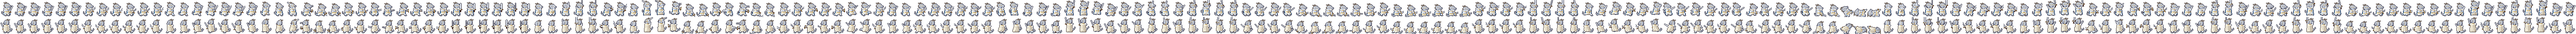
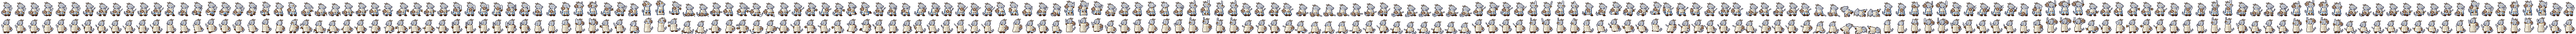
fix(tactics-creator): align creator.json traits, subclass names, and drawn gear with rules (#128)

diff --git a/tools/tactics-assets/parts/creator.py b/tools/tactics-assets/parts/creator.py
@@ -60,40 +60,40 @@ class ClassKit:
 RACES: dict[str, Race] = {r.id: r for r in [
     Race("human", "Human", "standard", "human", HUMAN_SKINS, HAIR_STYLES, ALL_BEARDS,
          default={"skin": "tan", "hair": "short", "hair_colour": "brown", "eyes": "dark"},
-         traits=["Versatile", "+1 to every score"]),
+         traits=["Resourceful", "+1 skill"]),
     Race("elf", "Elf", "standard", "elf", HUMAN_SKINS, HAIR_STYLES, [],
          default={"skin": "porcelain", "hair": "long", "hair_colour": "platinum", "eyes": "green"},
-         traits=["Darkvision", "Fey ancestry", "Keen senses"]),
+         traits=["Darkvision", "Fey ancestry", "Fey step"]),
     Race("half_elf", "Half-Elf", "standard", "half_elf", HUMAN_SKINS, HAIR_STYLES, ["short", "goatee", "stubble"],
          default={"skin": "fair", "hair": "ponytail", "hair_colour": "auburn", "eyes": "green"},
-         traits=["Darkvision", "Fey ancestry", "Two extra skills"]),
+         traits=["Darkvision", "Fey ancestry", "+1 skill"]),
     Race("dwarf", "Dwarf", "short", "human", ["fair", "tan", "olive", "brown", "deep"], HAIR_STYLES,
          ["full", "braided", "short", "goatee", "moustache", "stubble"],
          default={"skin": "tan", "hair": "short", "hair_colour": "copper", "beard": "full", "eyes": "dark"},
-         traits=["Darkvision", "Poison resilience", "Stone sense"]),
+         traits=["Darkvision", "Poison resilience", "Stoneskin"]),
     Race("halfling", "Halfling", "short", "human", HUMAN_SKINS, HAIR_STYLES, [],
          default={"skin": "olive", "hair": "messy", "hair_colour": "brown", "eyes": "green"},
-         traits=["Lucky", "Brave", "Nimble"]),
+         traits=["Lucky"]),
     Race("gnome", "Gnome", "short", "gnome", HUMAN_SKINS, HAIR_STYLES, ["short", "full", "moustache", "goatee"],
          default={"skin": "fair", "hair": "messy", "hair_colour": "teal", "eyes": "blue"},
          traits=["Darkvision", "Gnome cunning"]),
     Race("half_orc", "Half-Orc", "large", "orc", ["orc", "orc_grey", "orc_olive", "goblin"], HAIR_STYLES,
          ["short", "goatee", "moustache", "stubble"],
          default={"skin": "orc", "hair": "mohawk", "hair_colour": "black", "eyes": "amber", "horn": "ivory"},
-         traits=["Darkvision", "Relentless endurance", "Savage attacks"]),
+         traits=["Darkvision", "Relentless endurance"]),
     Race("tiefling", "Tiefling", "standard", "human", ["tiefling", "infernal", "lilac", "ash"], HAIR_STYLES,
          [], horns=["curled", "straight", "ram", "small"], horns_required=True, tail="devil",
          default={"skin": "tiefling", "hair": "long", "hair_colour": "black", "horns": "curled",
                   "horn": "ram", "eyes": "gold"},
-         traits=["Darkvision", "Hellish resistance", "Infernal legacy"]),
+         traits=["Darkvision", "Hellish resistance", "Hellish rebuke"]),
     Race("aasimar", "Aasimar", "standard", "human", ["celestial_gold", "celestial_silver", "celestial_bronze",
                                                      "porcelain", "brown"], HAIR_STYLES, ["short", "full"],
          default={"skin": "celestial_gold", "hair": "long", "hair_colour": "chestnut", "eyes": "radiant"},
-         traits=["Darkvision", "Healing hands", "Radiant soul"]),
+         traits=["Darkvision", "Healing hands"]),
     Race("goliath", "Goliath", "large", "human", ["stone_grey", "stone_blue", "stone_umber"], HAIR_STYLES,
          ["short", "braided"],
          default={"skin": "stone_grey", "hair": "none", "eyes": "blue", "marks": "tattoo", "paint": "kohl"},
-         traits=["Stone's endurance", "Powerful build", "Mountain born"]),
+         traits=["Stone's endurance"]),
     Race("dragonborn", "Dragonborn", "standard", "dragon",
          ["dragon_red", "dragon_blue", "dragon_green", "dragon_black", "dragon_white", "dragon_gold",
           "dragon_bronze", "dragon_silver", "dragon_copper", "dragon_brass"], [], [],
@@ -118,21 +118,22 @@ CLASSES: dict[str, ClassKit] = {k.id: k for k in [
     ClassKit("ranger", "Ranger", {"torso": "coat", "legs": "pants", "feet": "boots", "hands": "gloves",
                                   "weapon": "bow", "cape": "cloak"},
              {"cloth1": "cloth/forest", "cloth2": "cloth/sand"}, "Ranged"),
-    ClassKit("paladin", "Paladin", {"torso": "plate", "legs": "greaves", "feet": "sabatons", "hands": "gauntlets",
-                                    "weapon": "greatsword", "cape": "cloak"},
+    ClassKit("paladin", "Paladin", {"torso": "chain", "legs": "pants", "feet": "boots", "hands": "gloves",
+                                    "weapon": "sword", "offhand": "round_shield", "cape": "cloak"},
              {"cloth1": "cloth/ivory", "cloth2": "cloth/sky", "metal": "metal/silver"}, "Defender"),
     ClassKit("bard", "Bard", {"torso": "tunic", "legs": "pants", "feet": "boots", "hands": "bare",
                               "weapon": "lute", "cape": "short_cape"},
              {"cloth1": "cloth/teal", "cloth2": "cloth/ochre", "wood": "wood/pale"}, "Support"),
     ClassKit("druid", "Druid", {"torso": "robe", "legs": "skirt", "feet": "sandals", "hands": "bare",
-                                "weapon": "staff", "headgear": "circlet"},
+                                "weapon": "staff", "headgear": "circlet", "offhand": "round_shield"},
              {"cloth1": "cloth/moss", "cloth2": "cloth/forest", "magic": "magic/nature", "wood": "wood/dark"},
              "Shapeshifter"),
     ClassKit("warlock", "Warlock", {"torso": "coat", "legs": "pants", "feet": "boots", "hands": "gloves",
                                     "weapon": "tome", "cape": "cloak"},
              {"cloth1": "cloth/plum", "cloth2": "cloth/charcoal", "trim": "metal/dark", "magic": "magic/shadow"},
              "Blaster"),
-    ClassKit("monk", "Monk", {"torso": "tunic", "legs": "pants", "feet": "sandals", "hands": "bare"},
+    ClassKit("monk", "Monk", {"torso": "tunic", "legs": "pants", "feet": "sandals", "hands": "bare",
+                              "weapon": "spear"},
              {"cloth1": "cloth/ochre", "cloth2": "cloth/rust"}, "Skirmisher"),
     ClassKit("barbarian", "Barbarian", {"torso": "harness", "legs": "kilt", "feet": "boots", "hands": "wraps",
                                         "weapon": "greataxe", "cape": "pelt", "marks": "warpaint"},
@@ -175,7 +176,7 @@ SUBCLASSES: dict[str, Subclass] = {s.id: s for s in [
           "headgear": "feathered_cap", "offhand": "war_horn"},
          {"cloth1": "cloth/navy", "cloth2": "metal/gold", "metal": "metal/bronze"}),
     # Rogue
-    _sub("rogue", "shadow", "Shadow", "Stealth, backstabs from behind",
+    _sub("rogue", "shadow", "Shadow", "Stealth, teleport between shadows",
          {"headgear": "mask_hood", "offhand": "dagger", "torso": "leather", "cape": "cloak"},
          {"cloth1": "cloth/charcoal", "cloth2": "cloth/charcoal", "leather": "leather/dark", "blade": "metal/dark"}),
     _sub("rogue", "trickster", "Trickster", "Traps, swaps positions",
@@ -228,20 +229,20 @@ SUBCLASSES: dict[str, Subclass] = {s.id: s for s in [
     _sub("bard", "valor", "College of Valor", "Buffs, grants extra actions",
          {"torso": "chain", "weapon": "sword", "offhand": "war_horn", "headgear": "feathered_cap"},
          {"cloth1": "cloth/crimson", "cloth2": "metal/gold"}),
-    _sub("bard", "lore", "College of Lore", "Debuffs, copies an enemy ability",
+    _sub("bard", "lore", "College of Lore", "Debuffs, cutting words, extra spells",
          {"torso": "coat", "weapon": "tome", "headgear": "beret", "cape": "cloak"},
          {"cloth1": "cloth/navy", "cloth2": "cloth/ivory", "magic": "magic/arcane"}),
     _sub("bard", "siren", "College of the Siren", "Charm, moves enemies",
          {"weapon": "lyre", "headgear": "circlet", "torso": "robe", "legs": "skirt", "feet": "sandals"},
          {"cloth1": "cloth/teal", "cloth2": "cloth/sky", "magic": "magic/frost"}),
     # Druid
-    _sub("druid", "shapeshifter", "Shapeshifter", "Beast forms",
+    _sub("druid", "shapeshifter", "Circle of the Shapeshifter", "Beast forms",
          {"headgear": "antlers", "cape": "pelt", "weapon": "quarterstaff"},
          {"cloth1": "leather/tan", "cloth2": "cloth/moss", "horn": "horn/bone"}),
-    _sub("druid", "stormcaller", "Stormcaller", "Weather zones",
+    _sub("druid", "stormcaller", "Circle of the Stormcaller", "Weather zones",
          {"weapon": "storm_staff", "headgear": "hood", "cape": "cloak"},
          {"cloth1": "cloth/navy", "cloth2": "cloth/slate", "magic": "magic/storm"}),
-    _sub("druid", "grovekeeper", "Grovekeeper", "Summons, healing over time",
+    _sub("druid", "grovekeeper", "Circle of the Grovekeeper", "Summons, healing over time",
          {"weapon": "living_staff", "headgear": "flower_crown"},
          {"cloth1": "cloth/moss", "cloth2": "foliage/blossom", "magic": "magic/nature"}, companion="sapling"),
     # Warlock
@@ -252,7 +253,7 @@ SUBCLASSES: dict[str, Subclass] = {s.id: s for s in [
          {"weapon": "tome", "offhand": "orb"},
          {"cloth1": "cloth/crimson", "cloth2": "cloth/charcoal", "magic": "magic/fire", "trim": "metal/gold"},
          companion="imp"),
-    _sub("warlock", "void", "Void", "Teleport, pull",
+    _sub("warlock", "void", "Voidcaller", "Teleport, pull",
          {"weapon": "wand", "offhand": "orb", "torso": "robe", "legs": "skirt", "headgear": "hood"},
          {"cloth1": "cloth/navy", "cloth2": "cloth/charcoal", "magic": "magic/void"}),
     # Monk
@@ -282,7 +283,7 @@ SUBCLASSES: dict[str, Subclass] = {s.id: s for s in [
          {"torso": "drake_robe", "headgear": "circlet", "marks": "scales", "shoulders": "drake_pauldrons",
           "horns": "small"},
          {"cloth1": "cloth/charcoal", "cloth2": "skin/dragon_red", "metal": "metal/gold", "magic": "magic/fire"}),
-    _sub("sorcerer", "chaos", "Chaos Bloodline", "Wild magic surges",
+    _sub("sorcerer", "chaos", "Wild Chaos", "Wild magic surges",
          {"torso": "motley_robe", "weapon": "wild_motes", "float": "chaos_orb"},
          {"cloth1": "cloth/teal", "cloth2": "cloth/crimson", "trim": "metal/gold", "magic": "magic/wild"}),
     _sub("sorcerer", "runeborn", "Runeborn", "Lays glowing runes on the ground",

diff --git a/tools/tactics-assets/test_manifest_crosscheck.py b/tools/tactics-assets/test_manifest_crosscheck.py
@@ -127,6 +127,79 @@ class ManifestCrosscheckTests(unittest.TestCase):
                     missing.add(sprite)
         self.assertEqual(set(), missing, "Unresolved rules monster sprites")
 
+    def test_creator_traits_and_subclass_names_match_rules(self):
+        creator = json.loads((BASE / "characters/creator.json").read_text())
+
+        # 1. Subclass names match rules exactly (36 total, 3 per class).
+        subclasses = creator.get("subclasses", {})
+        self.assertEqual(36, len(subclasses), "Expected 36 subclasses in creator.json")
+        for sub_id, sub_data in subclasses.items():
+            cls_id = sub_data["class"]
+            cls_rule = json.loads((BASE / f"rules/classes/{cls_id}.json").read_text())
+            rule_sub = next((s for s in cls_rule.get("subclasses", [])
+                             if s["id"] == f"{cls_id}.{sub_id}" or s["id"].endswith(f".{sub_id}")), None)
+            self.assertIsNotNone(rule_sub, f"Subclass {cls_id}.{sub_id} not found in rules")
+            self.assertEqual(sub_data["name"], rule_sub["name"],
+                             f"Subclass name mismatch for {cls_id}.{sub_id}: creator='{sub_data['name']}', rules='{rule_sub['name']}'")
+
+        # 2. Race traits match rules and have no unimplemented drift traits.
+        drift_traits = {
+            "+1 to every score", "Two extra skills", "Brave", "Nimble",
+            "Savage attacks", "Powerful build", "Mountain born",
+            "Radiant soul", "Keen senses", "Stone sense", "Versatile"
+        }
+        for race_id, race_data in creator["races"].items():
+            traits = set(race_data.get("traits", []))
+            bad = traits & drift_traits
+            self.assertEqual(set(), bad, f"Drift traits in {race_id}: {bad}")
+
+        self.assertEqual(creator["races"]["human"]["traits"], ["Resourceful", "+1 skill"])
+        self.assertEqual(creator["races"]["half_elf"]["traits"], ["Darkvision", "Fey ancestry", "+1 skill"])
+        self.assertEqual(creator["races"]["halfling"]["traits"], ["Lucky"])
+        self.assertEqual(creator["races"]["half_orc"]["traits"], ["Darkvision", "Relentless endurance"])
+        self.assertEqual(creator["races"]["goliath"]["traits"], ["Stone's endurance"])
+        self.assertEqual(creator["races"]["aasimar"]["traits"], ["Darkvision", "Healing hands"])
+        self.assertEqual(creator["races"]["dwarf"]["traits"], ["Darkvision", "Poison resilience", "Stoneskin"])
+        self.assertEqual(creator["races"]["gnome"]["traits"], ["Darkvision", "Gnome cunning"])
+        self.assertEqual(creator["races"]["tiefling"]["traits"], ["Darkvision", "Hellish resistance", "Hellish rebuke"])
+        self.assertEqual(creator["races"]["elf"]["traits"], ["Darkvision", "Fey ancestry", "Fey step"])
+        self.assertEqual(creator["races"]["dragonborn"]["traits"], ["Breath weapon", "Damage resistance"])
+
+        # 3. Subclass role text does not promise non-existent mechanics.
+        shadow_role = creator["subclasses"]["shadow"]["role"].lower()
+        self.assertNotIn("backstab", shadow_role, "Shadow role should not promise backstabs (no facing)")
+        self.assertNotIn("behind", shadow_role, "Shadow role should not promise positioning behind")
+        lore_role = creator["subclasses"]["lore"]["role"].lower()
+        self.assertNotIn("cop", lore_role, "Lore role should not promise copying abilities")
+
+    def test_creator_drawn_weapon_and_shield_match_starting_kit(self):
+        creator = json.loads((BASE / "characters/creator.json").read_text())
+        shields = {"round_shield", "kite_shield", "tower_shield", "buckler"}
+        for cls_id, cls_data in creator["classes"].items():
+            cls_rule = json.loads((BASE / f"rules/classes/{cls_id}.json").read_text())
+            sk = cls_rule["startingKit"]
+            gear = cls_data["gear"]
+
+            has_shield = sk.get("shield", False)
+            drawn_offhand = gear.get("offhand")
+            if has_shield:
+                self.assertIn(drawn_offhand, shields,
+                              f"{cls_id} startingKit has shield, but drawn offhand is {drawn_offhand}")
+            else:
+                self.assertNotIn(drawn_offhand, shields,
+                                 f"{cls_id} startingKit has no shield, but drawn offhand is {drawn_offhand}")
+
+            drawn_weapon = gear.get("weapon")
+            self.assertIsNotNone(drawn_weapon, f"{cls_id} has no drawn weapon")
+
+            if cls_id == "paladin":
+                self.assertEqual("sword", drawn_weapon, "Paladin drawn weapon should match startingKit longsword ('sword')")
+                self.assertEqual("chain", gear.get("torso"), "Paladin drawn torso should match startingKit chain_mail ('chain')")
+            elif cls_id == "monk":
+                self.assertEqual("spear", drawn_weapon, "Monk drawn weapon should match startingKit spear ('spear')")
+            elif cls_id == "druid":
+                self.assertEqual("staff", drawn_weapon, "Druid drawn weapon should match startingKit quarterstaff ('staff')")
+
 
 if __name__ == "__main__":
     unittest.main()

diff --git a/games/Tactics/Tactics.Presentation.Tests/Story/StoryScreenTests.cs b/games/Tactics/Tactics.Presentation.Tests/Story/StoryScreenTests.cs
@@ -83,7 +83,7 @@ public sealed class StoryScreenTests
             Assert.True(File.Exists(Path.Combine(Pack.Root, face.Backdrop)), face.Backdrop);
             speakers++;
         }
-        Assert.Equal(921 - AllLines().Count(l => l.Line.Speaker == "narrator"), speakers);
+        Assert.Equal(945 - AllLines().Count(l => l.Line.Speaker == "narrator"), speakers);
     }
 
     [Fact]
@@ -132,7 +132,7 @@ public sealed class StoryScreenTests
     public void Every_line_in_the_lore_fits_the_caption()
     {
         var lines = AllLines().ToArray();
-        Assert.Equal(921, lines.Length);
+        Assert.Equal(945, lines.Length);
         foreach (var (_, line) in lines)
         {
             var caption = Screen(Showing(1, LineOf(line))).Caption!;

diff --git a/games/Tactics/Tactics.Presentation.Tests/Story/StoryTrackTests.cs b/games/Tactics/Tactics.Presentation.Tests/Story/StoryTrackTests.cs
@@ -59,7 +59,7 @@ public sealed class StoryTrackTests
     public void Camp_reflections_use_existing_portraits_and_the_completed_voice_batch()
     {
         var lines = AllLines().Where(l => l.Scene.Camp).ToArray();
-        Assert.Equal(8, lines.Length);
+        Assert.Equal(32, lines.Length);
         foreach (var (_, line) in lines)
         {
             Assert.NotNull(Clips.ForLine(line.Id));
